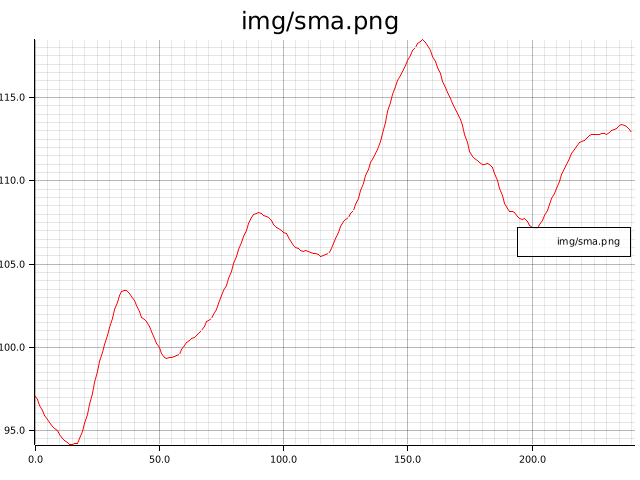
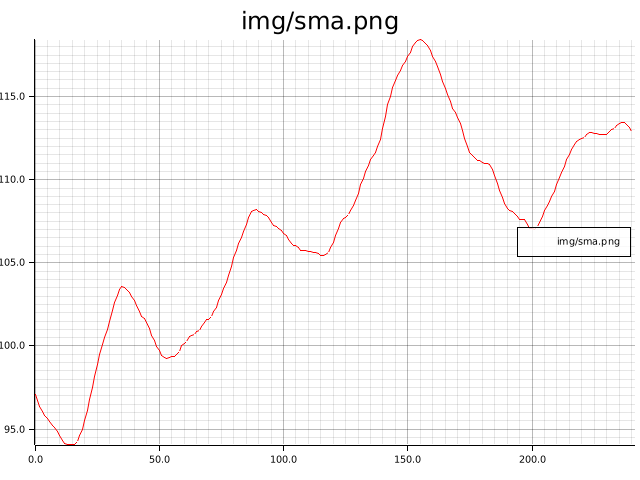
sma: average exactly window_len values
Eviction compared the queue length with `>` before pushing, so a full
window held window_len + 1 values and sma(x, 10) averaged 11 values. Found
by comparing a pipeline against hand-computed values.

Changed region(s): [[0.0, 0.0938, 1.0, 0.9375]]

diff --git a/src/sliding_windows/sma.rs b/src/sliding_windows/sma.rs
@@ -50,11 +50,12 @@ where
         let Some(val) = self.view.last() else { return };
         debug_assert!(val.is_finite(), "value must be finite");
 
-        if self.q_vals.len() > self.window_len.get() {
-            let old_val = self.q_vals.pop_front().unwrap();
+        if self.q_vals.len() >= self.window_len.get() {
+            let old_val = self.q_vals.pop_front().expect("the window is full");
             self.sum = self.sum - old_val;
         }
         self.q_vals.push_back(val);
+        debug_assert!(self.q_vals.len() <= self.window_len.get());
 
         self.sum = self.sum + val;
     }
@@ -96,6 +97,19 @@ mod tests {
                 assert!(last <= 1.0);
             }
         }
+    }
+
+    /// Exactly `window_len` values are averaged; one more used to stay in
+    /// the window once it was full.
+    #[test]
+    fn sma_averages_the_window() {
+        let mut sma = Sma::new(Echo::new(), NonZeroUsize::new(2).unwrap());
+        let mut out = Vec::new();
+        for v in [1.0, 3.0, 5.0, 7.0] {
+            sma.update(v);
+            out.push(sma.last());
+        }
+        assert_eq!(out, [None, Some(2.0), Some(4.0), Some(6.0)]);
     }
 
     #[test]
